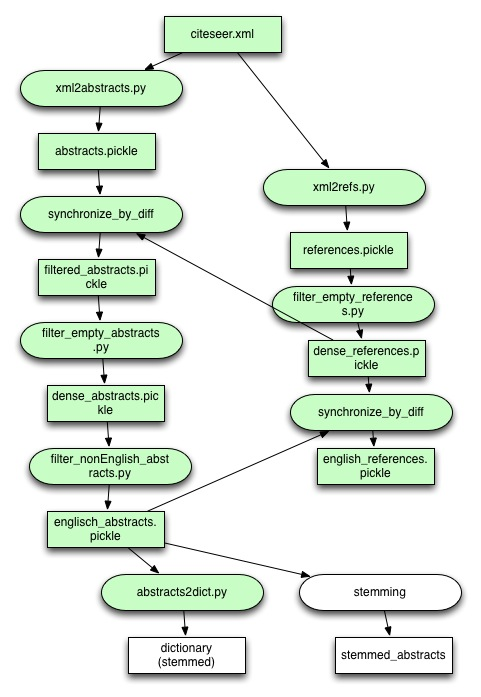
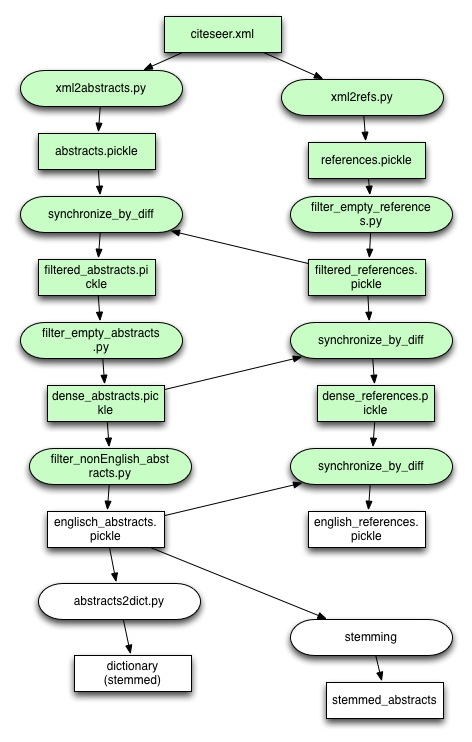
removed trash, made everything more consistent...

diff --git a/sampling.py b/sampling.py
@@ -1,0 +1,37 @@
+import cPickle, math, random
+
+def check_lengths( abstracts, references):
+	length = len(abstracts)
+	if len(references) != length:
+		print 'input file have differen length. Thats BAD!'
+		return -1
+	else:
+		return length
+
+
+def random_sampling( abstracts, references, percentage):
+	length = check_lengths( abstracts, references)
+	no_of_entries_to_delete = math.ceil(length * (1-percentage))
+	for i in range(no_of_entries_to_delete):
+		choice = random.choice( abstracts.keys() )
+		del abstracts[choice]
+		del references[choice]
+
+
+def main():
+	source_abs = open("../dense_abstracts.pickle")
+	source_ref = open("../dense_references.pickle")
+
+	if not source_abs and source_ref:
+		print "This works.... NOT"
+		
+
+	abstracts = cPickle.load(source_abs)
+	references = cPickle.load(source_ref)
+	print check_lengths( abstracts, references )
+	#random_sampling( abstracts, references)
+
+
+
+if __name__ == "__main__":
+	main()

diff --git a/filter_empty_abstracts.py b/filter_empty_abstracts.py
@@ -11,7 +11,7 @@ def main():
 		print "This works.... NOT"
 		return -1
 	
-	deleted_abstract_ids = []
+	deleted_abstract_ids = {}
 	print "reading abstracts..."
 	abstracts = cPickle.load(source)
 	abs_tobeginwith = float(len(abstracts))
@@ -21,7 +21,7 @@ def main():
 	for article_id, abstract in abstracts.items():
 		if 0 == len(abstract.strip()):
 			empty_cnt += 1
-			deleted_abstract_ids.append(article_id)
+			deleted_abstract_ids[article_id] = abstracts[article_id]
 			del abstracts[article_id]
 
 	print str(datetime.now())+' starting to persist references to: '+ out_file.name +' and '+out_diff.name

diff --git a/filter_empty_references.py b/filter_empty_references.py
@@ -3,8 +3,8 @@ from datetime import datetime
 
 def main():
 	source = open("../references.pickle")
-	out = open('../dense_references.pickle', 'w')
-	out_diff = open('../dense_references_diff.pickle', 'w')
+	out = open('../filtered_references.pickle', 'w')
+	out_diff = open('../filtered_references_diff.pickle', 'w')
 	print str(datetime.now())+ " extracts articles that cite stuff from '"+source.name+"' and writing it to '"+out.name+"' (save diff to '"+out_diff.name+"'"
 
 	if not source:
